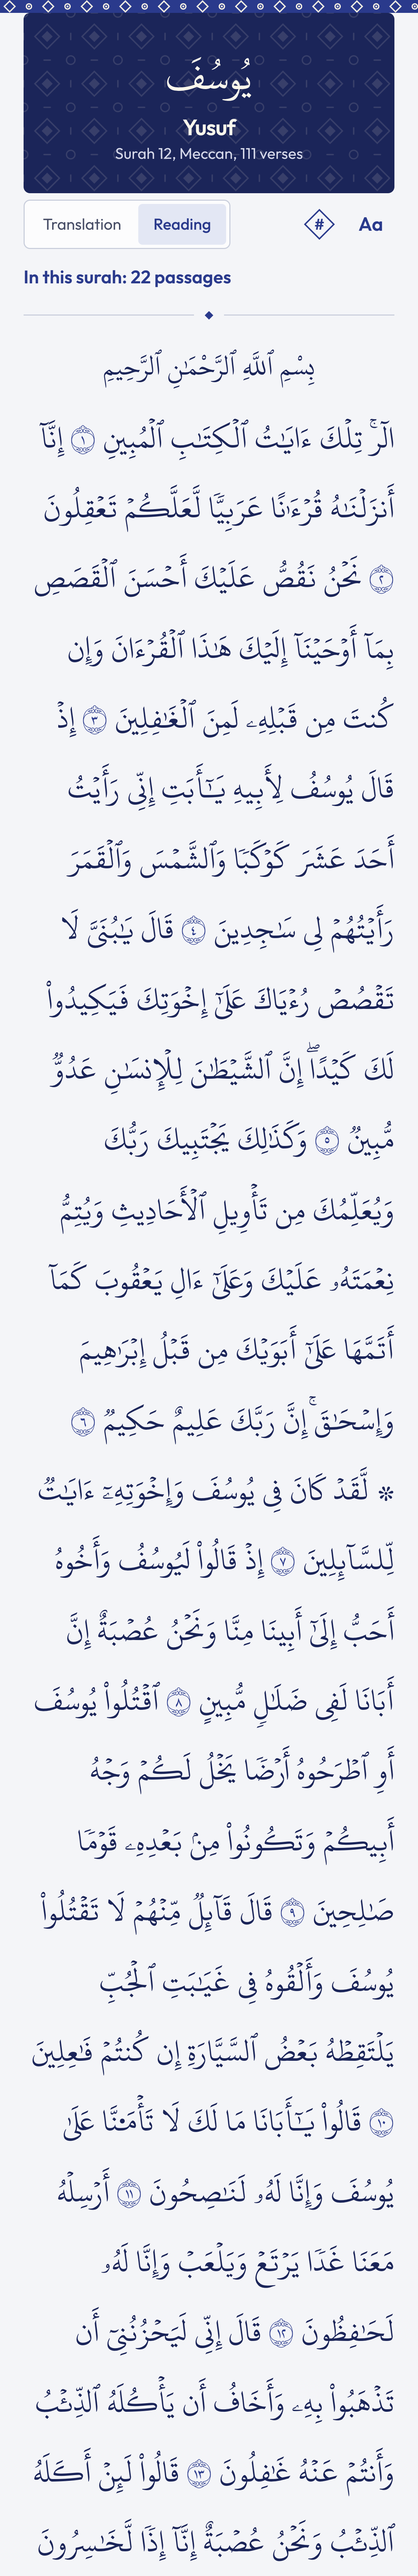
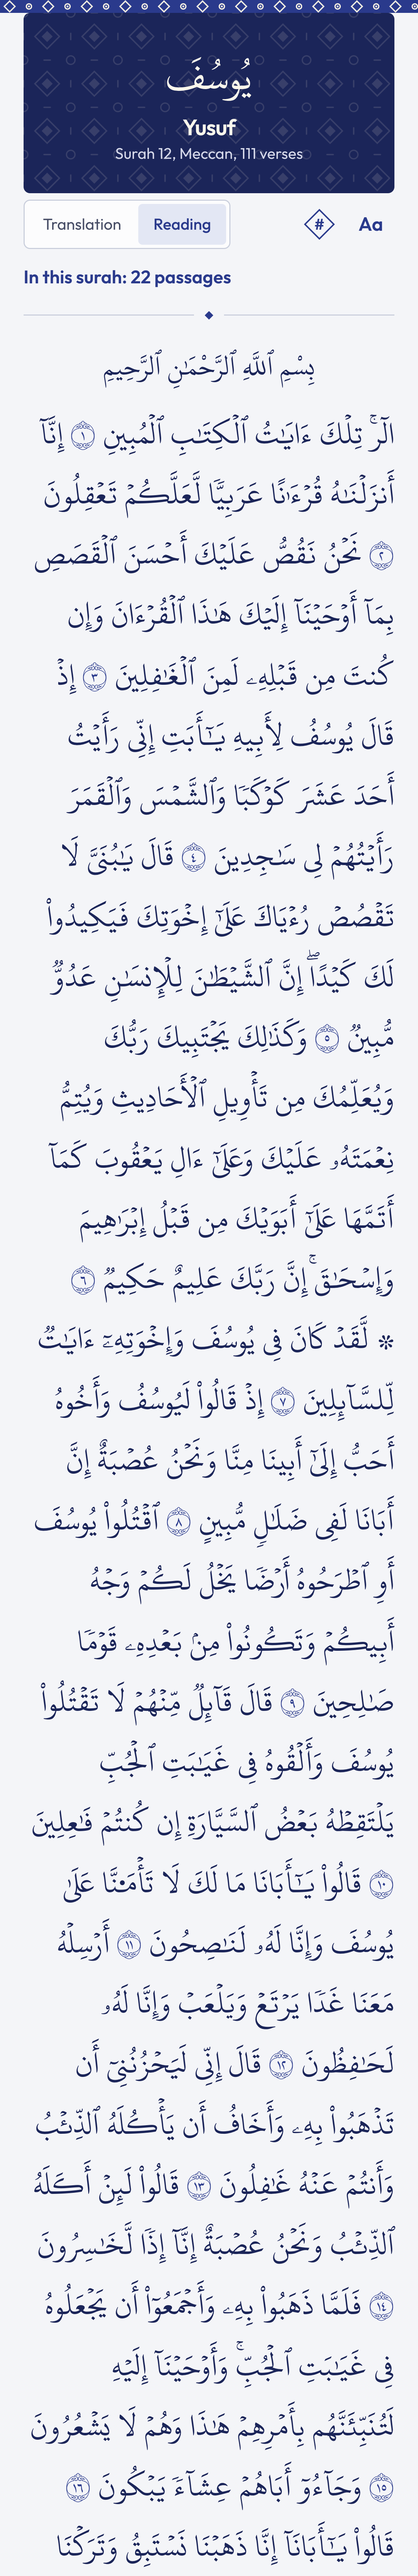
Count Yusuf's verses up to 111 as the surah scrolls, with the tighter Reading view

Changed region(s): [[0.0923, 0.1562, 0.9538, 1.0], [0.6154, 0.1562, 0.6462, 0.1875], [0.1231, 0.6562, 0.1538, 0.6875]]

diff --git a/apps/promo/src/Passages.tsx b/apps/promo/src/Passages.tsx
@@ -47,15 +47,20 @@ function S1Title({ t }: SceneProps) {
 /** The tall Reading view capture (app px) and how far the scene glides. */
 const WALL_HEIGHT = 2400;
 const WALL_TRAVEL = WALL_HEIGHT - VH;
+const YUSUF_VERSES = 111;
 
 function S2Wall({ t }: SceneProps) {
   // One slow, steady glide from the title plate down through the Arabic, as
-  // if scrolling a surah that keeps going.
-  const y = -WALL_TRAVEL * prog(t, 12, 118, ease.inOut);
+  // if scrolling a surah that keeps going, while the count climbs to 111.
+  const glide = prog(t, 12, 112, ease.inOut);
+  const y = -WALL_TRAVEL * glide;
+  const count = Math.round(1 + (YUSUF_VERSES - 1) * glide);
   return (
     <AbsoluteFill style={{ background: C.cotton }}>
       <Caption t={t} from={0} to={999}>
-        111 verses.
+        <span style={{ fontVariantNumeric: "tabular-nums" }}>{count}</span>{" "}
+        {count === 1 ? "verse" : "verses"}
+        {count === YUSUF_VERSES ? "." : "…"}
       </Caption>
       <StagePhone t={t} from="below">
         <Screen src={shot("passages-wall")} y={y} />
